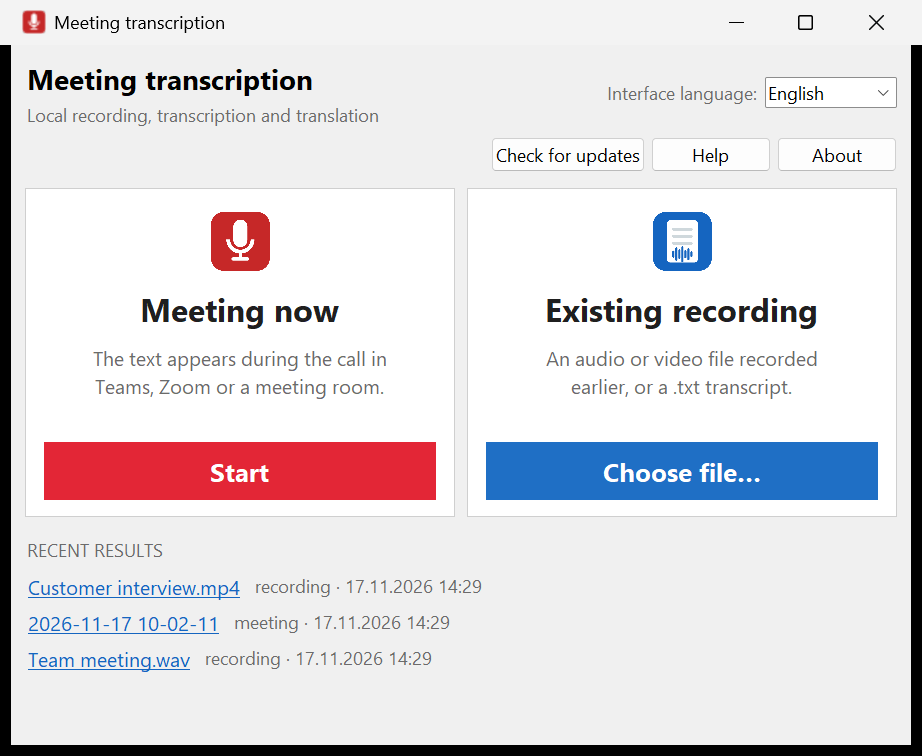
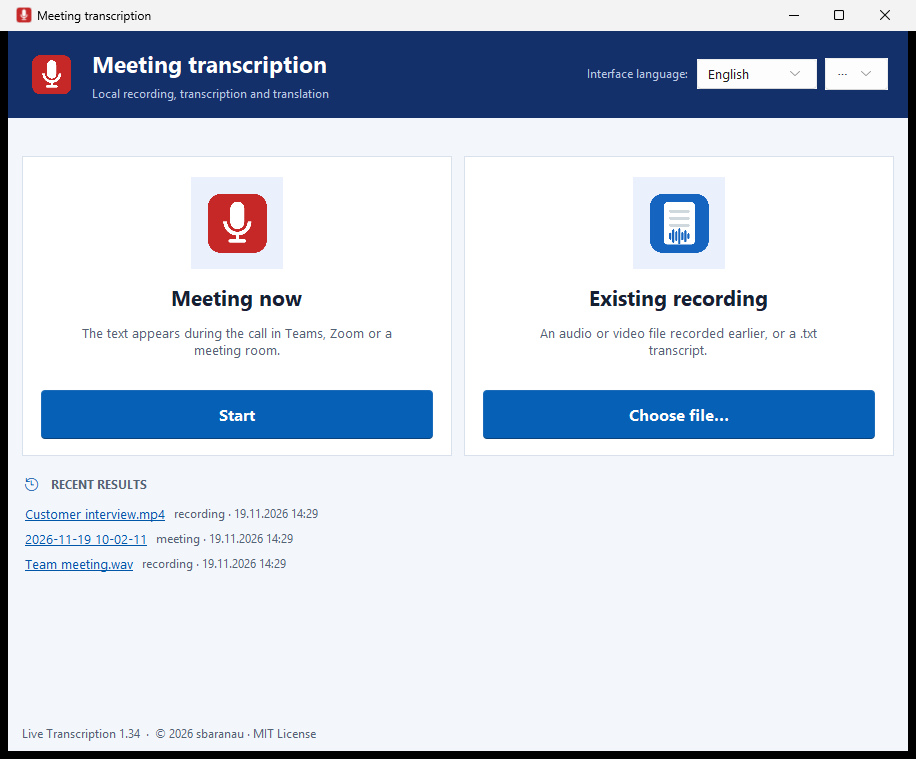
docs: retake README screenshots in the new design

diff --git a/README.md b/README.md
@@ -13,7 +13,7 @@ remains available for developers. See the
 [All releases](https://github.com/sbaranau/transcribe/releases/latest) ·
 [User guide in Russian](ИНСТРУКЦИЯ.md)
 
-![The home screen: two equal choices, Meeting now with a red Start button and Existing recording with a blue Choose file button, and the recent results below](docs/screenshots/1-home.png)
+![The home screen: a dark blue app bar, two equal choices, Meeting now and Existing recording, each with a blue button, the recent results, and the version and copyright at the bottom](docs/screenshots/1-home.png)
 
 ## What it does
 
@@ -146,7 +146,7 @@ system dialog; less-used options stay under **Additional settings**. During reco
 shown separately from confirmed text and the translation column can be hidden temporarily.
 Before the start, level bars show that the microphone and the computer sound are heard.
 
-![Meeting now on Windows: Back, meeting language, translation into German with its model ready, the microphone and computer sound with their level bars, and the red Start recording button](docs/screenshots/2-before.png)
+![Meeting now on Windows: Back, meeting language, translation into German with its model ready, the microphone and computer sound with their level bars, and the blue Start recording button](docs/screenshots/2-before.png)
 
 The processing shows its steps while it runs; the full log is under **Details**. When it ends,
 the results come first, and the taskbar button flashes with a notification if the window is in
@@ -154,7 +154,7 @@ the background.
 
 <p>
 <img src="docs/screenshots/3-processing.png" alt="Transcribing a recording on Windows: Stop processing, and the steps Transcription and Speakers running, Translation into German waiting" width="49%">
-<img src="docs/screenshots/4-results.png" alt="The same recording done in 1 minute: a green panel with the primary Open text button, Open translation, Open folder, Change the settings and run again, and Details" width="49%">
+<img src="docs/screenshots/4-results.png" alt="The same recording done in 1 minute: a green panel with the blue Open text button, Open translation, Open folder, Change the settings and run again, and Details" width="49%">
 </p>
 
 The results of a recording go into a folder next to it:
